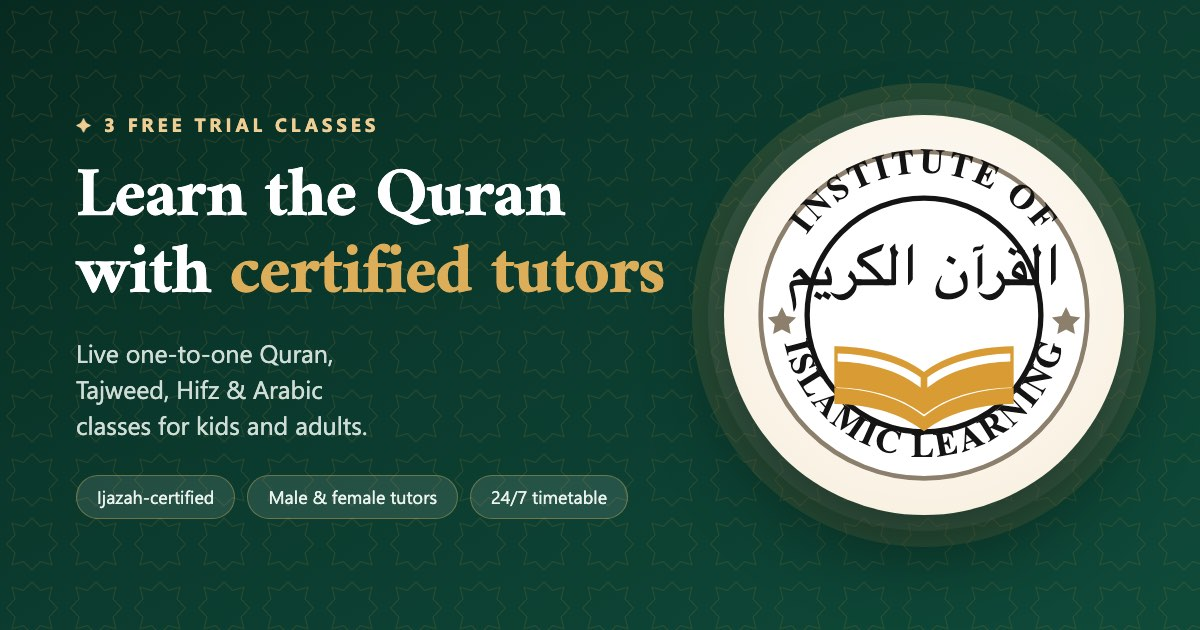
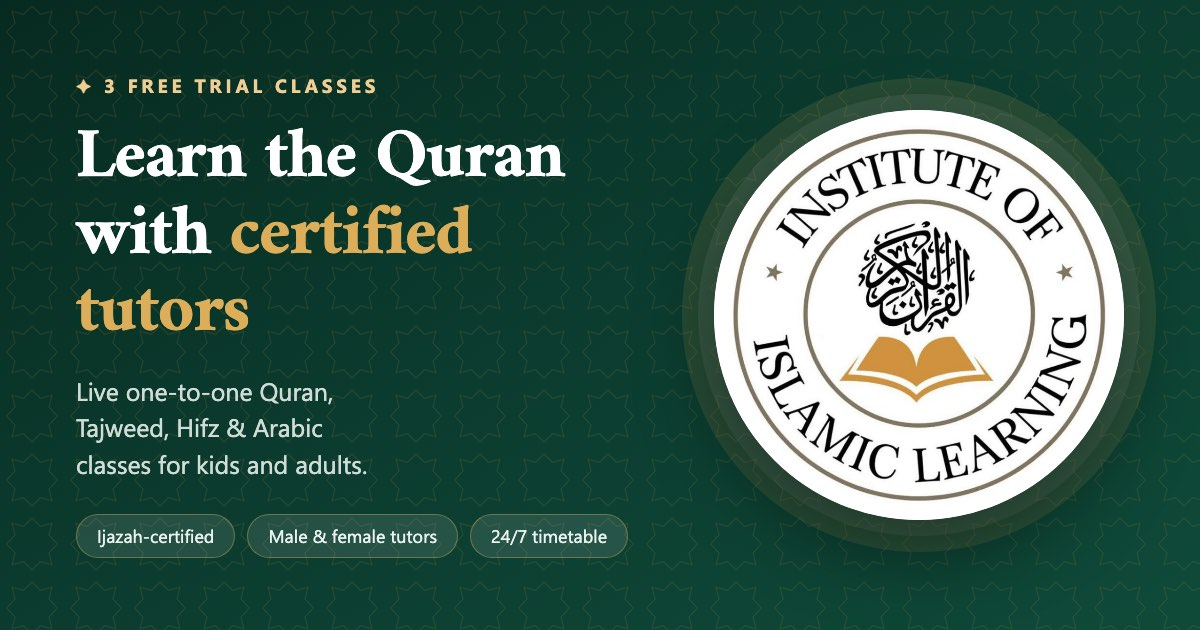
Use the real seal artwork instead of an SVG recreation
The hand-built SVG typeset the Arabic as plain naskh text, which looked
nothing like the thuluth calligraphy in the actual mark. Recovered the
original artwork, cropped it square to the seal's true bounds, and exported
the sizes the site needs (WebP with a JPEG fallback for the hero, a small
raster for the header and footer, PNG icons).

The original 1080px file is kept at src/assets/img/logo-source.jpg so the
derived sizes can be regenerated.

diff --git a/src/assets/css/style.css b/src/assets/css/style.css
@@ -109,7 +109,7 @@ html[data-theme=dark] .btn--ghost:hover{background:#1231278a;color:var(--gold-30
 .site-header.is-stuck{box-shadow:var(--shadow-md)}
 .header__inner{display:flex;align-items:center;gap:1rem;min-height:var(--header-h)}
 .brand{display:inline-flex;align-items:center;gap:.7rem;flex:none}
-.brand__mark{width:58px;height:58px;border-radius:50%;background:#fff;flex:none}
+.brand__mark{width:58px;height:58px;border-radius:50%;background:#fff;object-fit:cover;flex:none}
 .brand__text{display:flex;flex-direction:column;line-height:1.08;font-family:var(--f-display)}
 .brand__text strong{font-size:.82rem;font-weight:400;letter-spacing:.18em;text-transform:uppercase;color:var(--text-dim)}
 .brand__text em{font-style:normal;font-size:1.16rem;font-weight:700;color:var(--text);letter-spacing:.005em}
@@ -179,8 +179,9 @@ body.no-scroll{overflow:hidden}
 .stat b{display:block;font-family:var(--f-display);font-size:clamp(1.5rem,1.2rem + 1.1vw,2.1rem);color:var(--gold-300);line-height:1.1}
 .stat span{font-size:.82rem;color:#B9CCC3}
 .hero__art{display:flex;flex-direction:column;align-items:center;gap:clamp(1.1rem,2.4vw,1.75rem)}
-.hero__medallion{width:min(400px,82%);aspect-ratio:1;border-radius:50%;background:radial-gradient(circle at 50% 42%,rgba(255,255,255,.98),rgba(247,236,216,.9));display:grid;place-items:center;box-shadow:0 30px 80px rgba(0,0,0,.35),0 0 0 14px rgba(255,255,255,.07),0 0 0 28px rgba(221,174,90,.12);animation:float 7s ease-in-out infinite}
-.hero__medallion img{width:84%;height:auto}
+.hero__medallion{width:min(400px,82%);aspect-ratio:1;border-radius:50%;overflow:hidden;background:#fff;box-shadow:0 30px 80px rgba(0,0,0,.35),0 0 0 14px rgba(255,255,255,.07),0 0 0 28px rgba(221,174,90,.12);animation:float 7s ease-in-out infinite}
+.hero__medallion picture{display:block;width:100%;height:100%}
+.hero__medallion img{width:100%;height:100%;object-fit:cover;border-radius:50%}
 @keyframes float{0%,100%{transform:translateY(0)}50%{transform:translateY(-14px)}}
 .hero__badges{display:flex;flex-wrap:wrap;justify-content:center;gap:.65rem}
 .hero__badge{display:inline-flex;align-items:center;gap:.6rem;background:rgba(255,255,255,.09);border:1px solid rgba(221,174,90,.3);color:#E9F1ED;padding:.55rem .95rem;border-radius:var(--r-pill);font-size:.82rem;line-height:1.3;backdrop-filter:blur(6px)}
@@ -426,6 +427,7 @@ html[data-theme=dark] .to-top{background:var(--gold-500);color:#231704}
 .footer__grid{display:grid;grid-template-columns:1.6fr 1fr 1fr 1.25fr;gap:clamp(1.75rem,4vw,3rem);padding-bottom:2.5rem}
 @media (max-width:900px){.footer__grid{grid-template-columns:1fr 1fr}}
 @media (max-width:560px){.footer__grid{grid-template-columns:1fr;text-align:left}}
+.brand--footer .brand__mark{width:64px;height:64px}
 .brand--footer .brand__text strong{color:#9FB6AC}
 .brand--footer .brand__text em{color:#fff}
 .footer__brand p{margin-top:1rem;font-size:.92rem;max-width:44ch;color:#A9BDB4}

diff --git a/src/schema/home.html b/src/schema/home.html
@@ -1,6 +1,6 @@
 <script type="application/ld+json">
 {"@context":"https://schema.org","@graph":[
-{"@type":"EducationalOrganization","@id":"https://institute-of-islamic-learning.vercel.app/#org","name":"Institute of Islamic Learning","alternateName":"IIL","url":"https://institute-of-islamic-learning.vercel.app/","logo":"https://institute-of-islamic-learning.vercel.app/assets/img/logo.svg","description":"Live one-to-one online Quran, Tajweed, Hifz and Arabic classes with certified male and female tutors for children and adults worldwide.","foundingDate":"2016","email":"info@instituteofislamiclearning.com","telephone":"+92-300-408-0290","areaServed":["US","GB","CA","AU","DE","FR","NL","AE","SA","PK"],"sameAs":["https://wa.me/923004080290"],"aggregateRating":{"@type":"AggregateRating","ratingValue":"4.9","reviewCount":"2300","bestRating":"5"}},
+{"@type":"EducationalOrganization","@id":"https://institute-of-islamic-learning.vercel.app/#org","name":"Institute of Islamic Learning","alternateName":"IIL","url":"https://institute-of-islamic-learning.vercel.app/","logo":"https://institute-of-islamic-learning.vercel.app/assets/img/logo.jpg","description":"Live one-to-one online Quran, Tajweed, Hifz and Arabic classes with certified male and female tutors for children and adults worldwide.","foundingDate":"2016","email":"info@instituteofislamiclearning.com","telephone":"+92-300-408-0290","areaServed":["US","GB","CA","AU","DE","FR","NL","AE","SA","PK"],"sameAs":["https://wa.me/923004080290"],"aggregateRating":{"@type":"AggregateRating","ratingValue":"4.9","reviewCount":"2300","bestRating":"5"}},
 {"@type":"WebSite","@id":"https://institute-of-islamic-learning.vercel.app/#website","url":"https://institute-of-islamic-learning.vercel.app/","name":"Institute of Islamic Learning","publisher":{"@id":"https://institute-of-islamic-learning.vercel.app/#org"},"inLanguage":"en"},
 {"@type":"FAQPage","mainEntity":[
 {"@type":"Question","name":"Is the trial really free?","acceptedAnswer":{"@type":"Answer","text":"Yes — three complete one-to-one classes with a qualified tutor, at no cost. We don't ask for card details, and there's nothing to cancel if you decide not to continue."}},

diff --git a/src/layout.html b/src/layout.html
@@ -21,10 +21,12 @@
 <meta name="twitter:title" content="{{title}}">
 <meta name="twitter:description" content="{{description}}">
 <meta name="twitter:image" content="{{site}}/assets/img/og.jpg">
-<link rel="icon" href="/favicon.svg" type="image/svg+xml">
+<link rel="icon" href="/favicon-32.png" sizes="32x32" type="image/png">
+<link rel="icon" href="/favicon-96.png" sizes="96x96" type="image/png">
 <link rel="apple-touch-icon" href="/assets/img/apple-touch-icon.png">
 <link rel="manifest" href="/site.webmanifest">
 <link rel="preload" href="/assets/fonts/amiri-700-latin.woff2" as="font" type="font/woff2" crossorigin>
+<link rel="preload" href="/assets/img/logo.webp" as="image" type="image/webp" fetchpriority="high">
 <link rel="stylesheet" href="/assets/css/style.css">
 <script>(function(){try{var t=localStorage.getItem("iil-theme");if(t==="dark"||(!t&&matchMedia("(prefers-color-scheme:dark)").matches))document.documentElement.dataset.theme="dark";}catch(e){}})();</script>
 {{schema}}

diff --git a/src/partials/footer.html b/src/partials/footer.html
@@ -2,7 +2,7 @@
   <div class="wrap footer__grid">
     <div class="footer__brand">
       <a class="brand brand--footer" href="/" aria-label="Institute of Islamic Learning — home">
-        <img src="/assets/img/logo.svg" alt="" width="64" height="64" loading="lazy" decoding="async">
+        <img src="/assets/img/logo-sm.jpg" alt="" width="64" height="64" class="brand__mark" loading="lazy" decoding="async">
         <span class="brand__text"><strong>Institute of</strong><em>Islamic Learning</em></span>
       </a>
       <p>Authentic, one-to-one Quran and Arabic education for children and adults — taught live by certified male and female tutors, at times that fit your family.</p>

diff --git a/src/pages/index.html b/src/pages/index.html
@@ -29,7 +29,10 @@ schema: home.html
     </div>
     <div class="hero__art">
       <div class="hero__medallion">
-        <img src="/assets/img/logo.svg" alt="Institute of Islamic Learning seal" width="400" height="400" fetchpriority="high" decoding="async">
+        <picture>
+          <source srcset="/assets/img/logo.webp" type="image/webp">
+          <img src="/assets/img/logo.jpg" alt="Institute of Islamic Learning seal" width="800" height="800" fetchpriority="high" decoding="async">
+        </picture>
       </div>
       <div class="hero__badges">
         <p class="hero__badge">

diff --git a/src/partials/header.html b/src/partials/header.html
@@ -17,7 +17,7 @@
 <header class="site-header" id="siteHeader">
   <div class="wrap header__inner">
     <a class="brand" href="/" aria-label="Institute of Islamic Learning — home">
-      <img src="/assets/img/logo.svg" alt="" width="58" height="58" class="brand__mark" decoding="async">
+      <img src="/assets/img/logo-sm.jpg" alt="" width="58" height="58" class="brand__mark" decoding="async">
       <span class="brand__text">
         <strong>Institute of</strong>
         <em>Islamic Learning</em>
